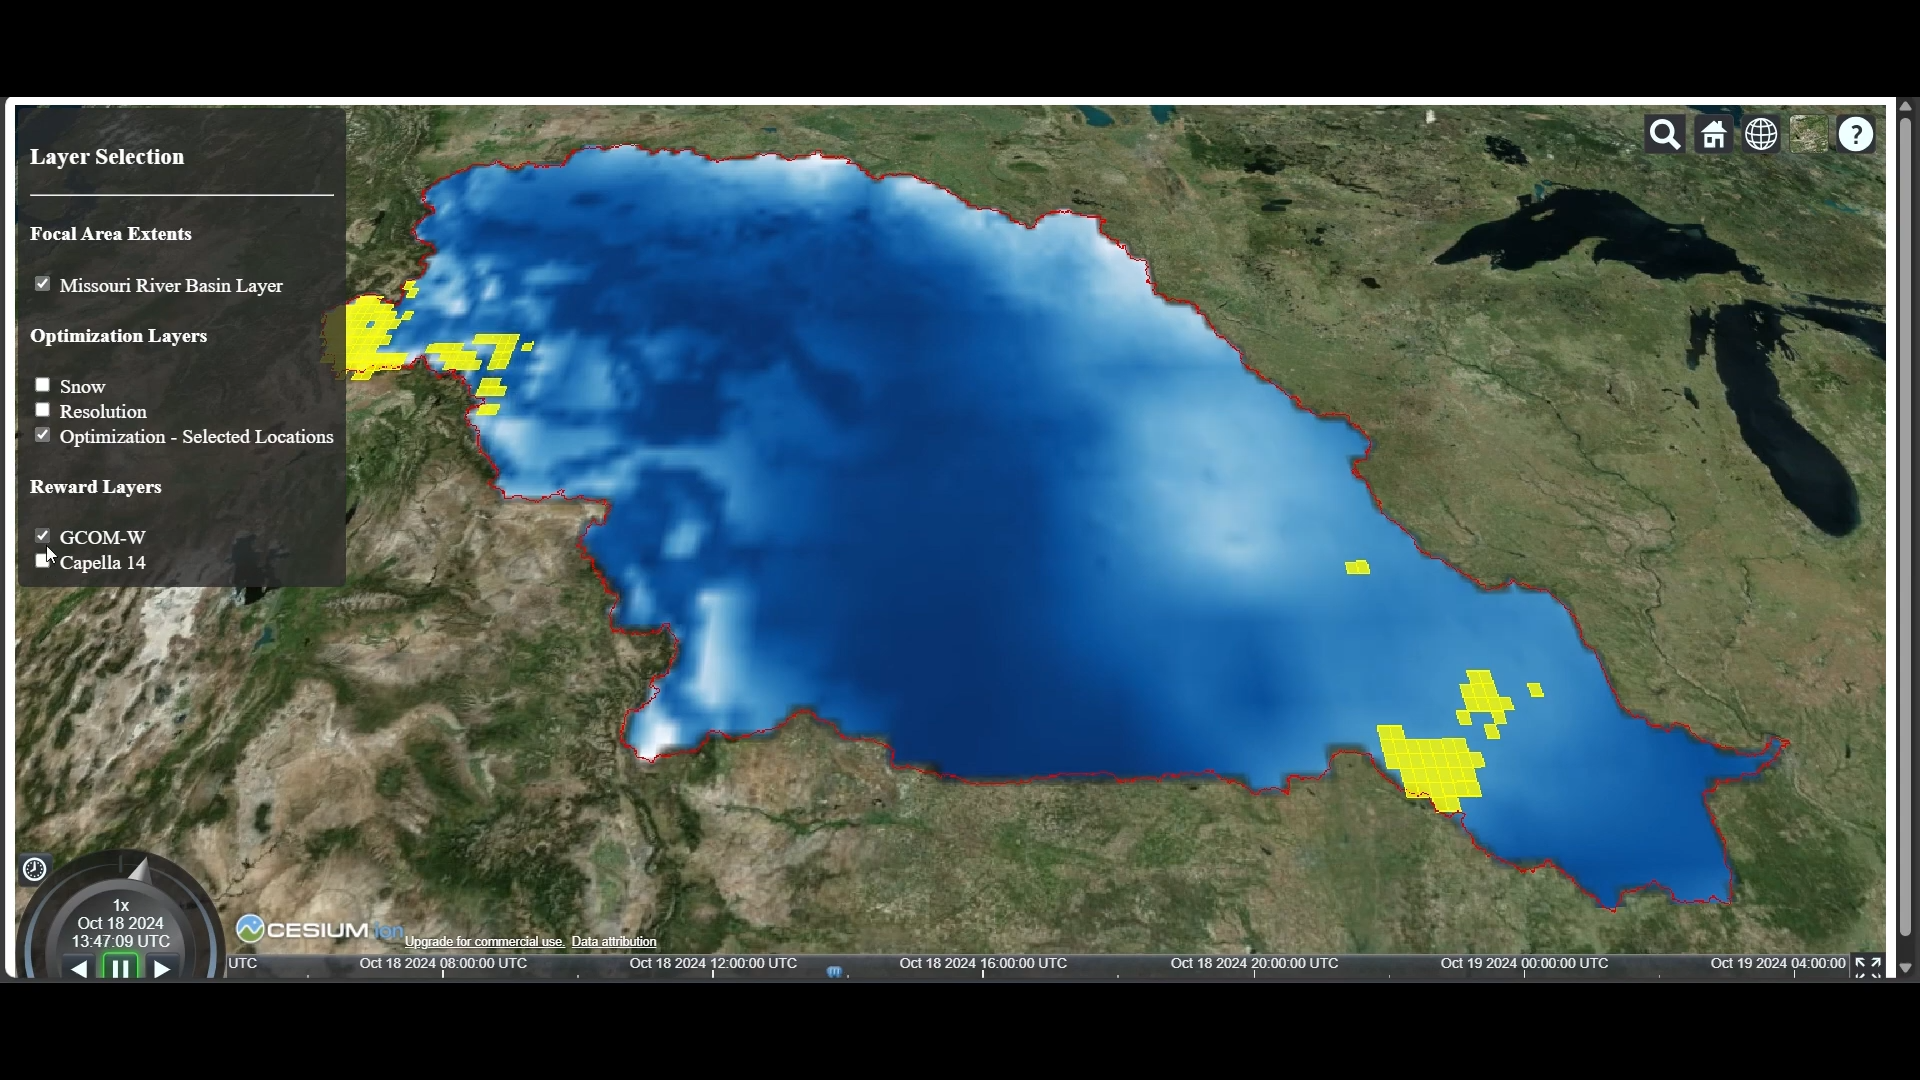
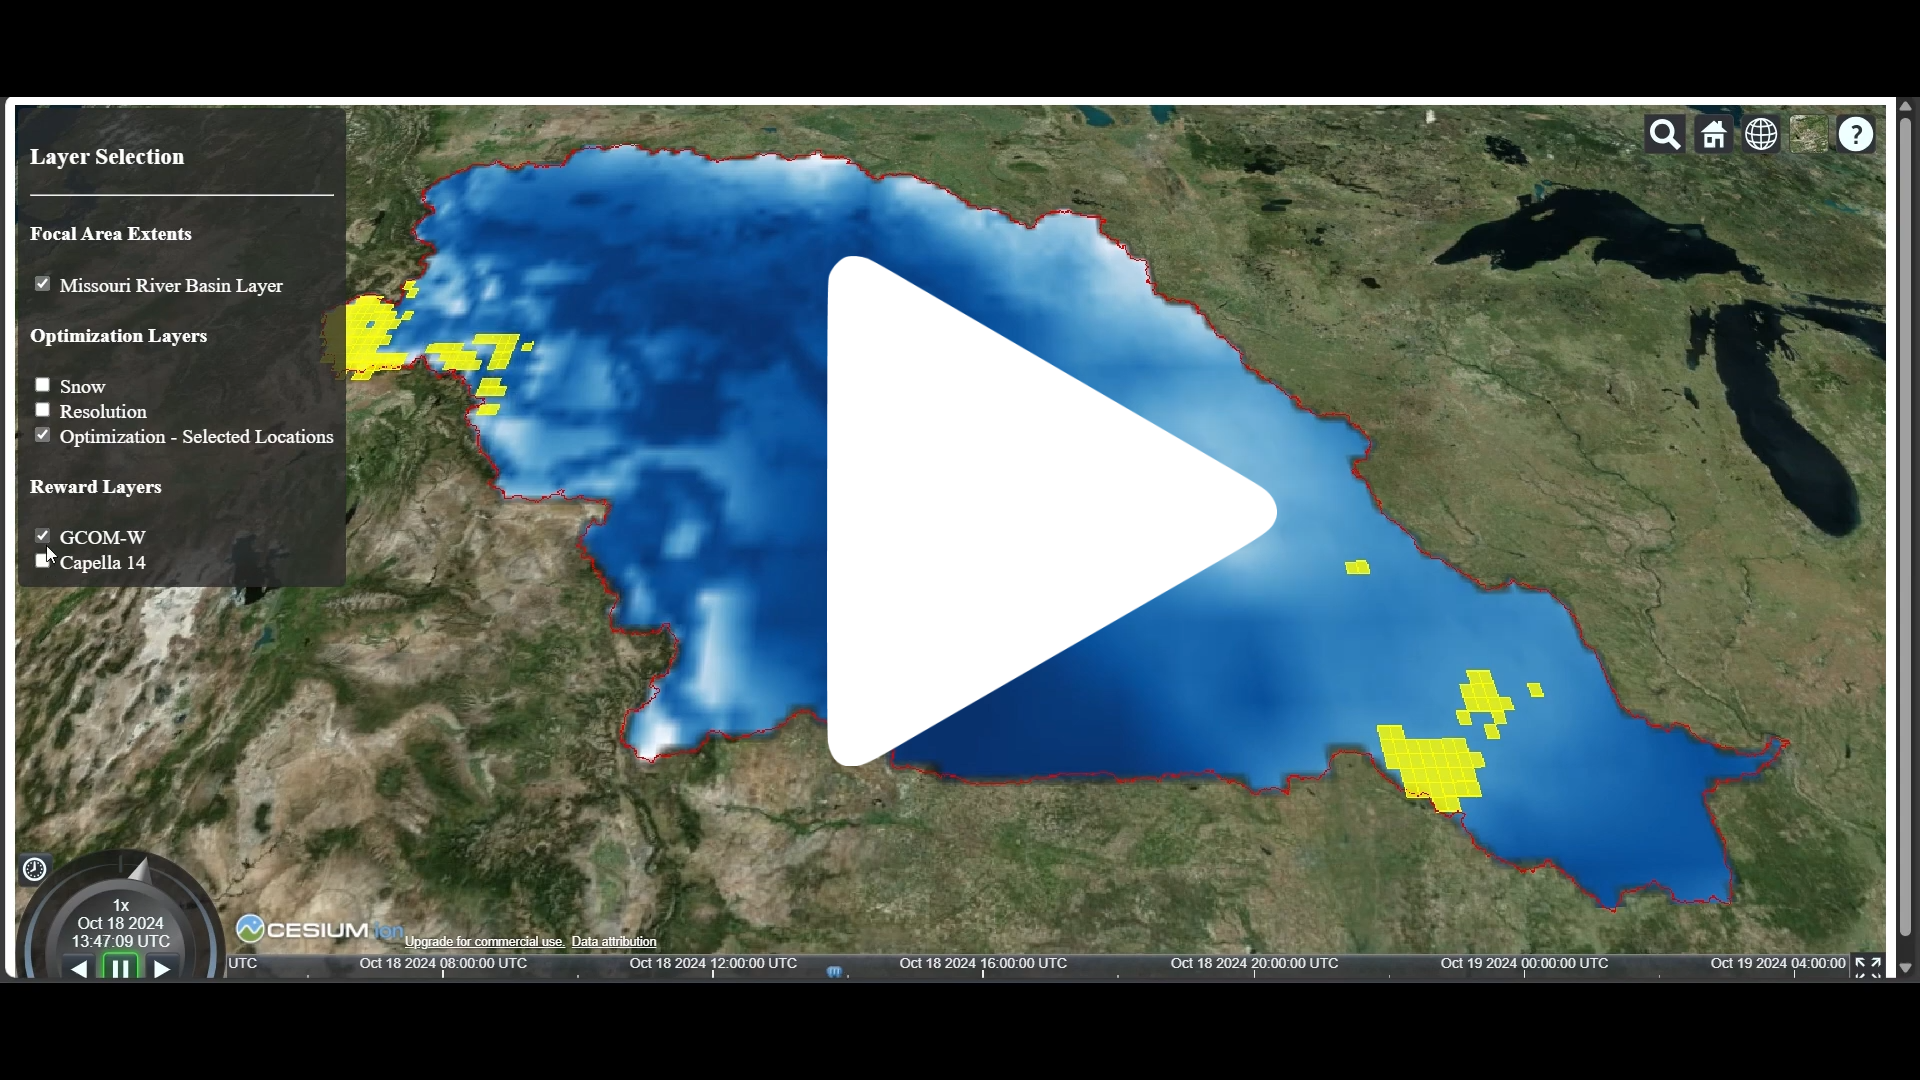
update image

Changed region(s): [[0.4062, 0.2139, 0.6875, 0.7028]]

diff --git a/README.md b/README.md
@@ -6,6 +6,8 @@ This project delivers a 3D visualization web application that receives and proce
 
 [![Watch the video](media/image.png)](https://youtu.be/zKBMltZmC8g)
 
+> **Note:** Click image above to watch the demonstration.
+
 ## Preparation
 
 - Install Node.JS on Linux:
